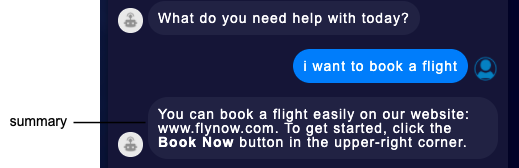
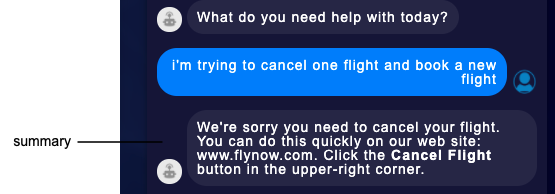
Copy edits to KAI doc

Changed region(s): [[0.0, 0.0, 0.9249, 1.0], [0.2775, 0.2381, 0.9865, 0.506]]

diff --git a/pages/Documents/ConversationalAI/ConversationBuilder/Interactions/integrations.md b/pages/Documents/ConversationalAI/ConversationBuilder/Interactions/integrations.md
@@ -61,41 +61,49 @@ A common use case for the Knowledge AI interaction is within a Fallback dialog, 
 
 #### How the search works
 
-* **The search phrase** - The Knowledge AI interaction always passes the consumer’s most recent message into the search, so it can be used as the search phrase.
+* **The search phrase** - The Knowledge AI interaction always passes the consumer’s most recent message into the search as the search phrase.
 * **The search** - When performing the search, the search mode is always “Intents.” For information on search modes, see [here](knowledge-base-using-intents-with-kbs.html#search-modes).
 * **The results** - The results that are returned must meet or exceed the confidence score that you specify within the interaction’s configuration. This minimum threshold can be VERY GOOD, GOOD or FAIR PLUS.
 
 {: .important}
-You might be familiar with implementing a knowledge base search using an Integration interaction that itself uses an associated [Knowledge Base integration](conversation-builder-integrations-knowledge-base-integrations.html) to perform the search. That approach is still supported. However, the Knowledge AI interaction is a faster and simpler alternative because it doesn’t need an associated Knowledge Base integration.
+You might be familiar with implementing a knowledge base search using an Integration interaction that itself uses a specified [Knowledge Base integration](conversation-builder-integrations-knowledge-base-integrations.html) to perform the search. That approach is still supported, but it is considered a legacy approach. The Knowledge AI interaction is a faster and simpler alternative because it doesn’t need an associated Knowledge Base integration.
 
-#### How the results are rendered
+#### Automatic rendering of results
 The results from a Knowledge AI search can be rendered in two ways:
 
 * Via automatic rendering
-* Via one or more Statement interactions that you add
+* Via one or more interactions that you manually add to the dialog
 
-Automatic rendering produces output that’s automatically rendered in a specific format, using specific elements of the article’s content.
+*Automatic rendering* doesn't require that you add any interactions to display the article content. It produces output that’s automatically rendered in a specific format. You can use:
 
-When you use “rich format” automatic rendering, the output includes rich elements, namely, images and links. The output looks like this:
+* Rich format
+* Plain text format
+
+“Rich format” automatic rendering uses a carousel and includes rich elements of the article's content, namely, the image URL and content URL. The output looks like this:
 
 <img style="width:500px" src="img/ConvoBuilder/knowledge_ai_rich.png">
 
-With "rich format" automatic rendering, anywhere from one to three results are returned based on the maximum number of answers that you've specified in the interaction.
+With "rich format" automatic rendering:
 
-In contrast, when you use “plain text” automatic rendering, the output doesn’t include rich elements, and it looks like this:
+* Anywhere from one to three results are returned based on the maximum number of answers that you've specified in the interaction.
+* The results degrade gracefully to "plain text format" when the channel in use doesn't support the carousel.
+
+With “plain text format” automatic rendering, the output doesn’t include rich elements, and it looks like this:
 
 <img style="width:500px" src="img/ConvoBuilder/knowledge_ai_plain.png">
 
-{: .important}
-Take note of the formatting applied to **Book Now** in the image above. When you use the "plain text" automatic rendering, HTML is not removed. Use HTML in your source knowledge base only when your target channels support it.
+With "plain text format" automatic rendering:
 
-With "plain text" automatic rendering, only a single, best result is returned regardless of the maximum number of answers that you've specified in the interaction.
+* Only a single, best result is returned regardless of the maximum number of answers that you've specified in the interaction.
+* HTML in the article's content is **not** removed. (Take note of the formatting applied to **Cancel Flight** in the image above.) Use HTML in your source knowledge base only when your target channels support it.
 
-Select “rich format” or “plain text format” based on the target channel’s support for rich elements. For more on this interaction’s channel support, see [here](conversation-builder-interactions-interaction-support.html).
+Select “rich format” or “plain text format” based on the target channel’s support for rich elements. For more on this interaction’s channel-level support, see [here](conversation-builder-interactions-interaction-support.html).
 
-If the output above meets your needs in terms of content and format, automatic rendering is the faster and simpler choice, as you don’t need to follow the Knowledge AI interaction with Statement interactions that display the article content. The Knowledge AI interaction handles everything: search of the knowledge base and rendering of the results.
+If the output above meets your needs in terms of content and format, automatic rendering is the faster and simpler choice, as you don’t need to follow the Knowledge AI interaction with interactions that display the article's content. The Knowledge AI interaction handles both search of the knowledge base and rendering of the results.
 
-However, if you desire control over the content and format, you can disable automatic rendering. In this case, after the Knowledge AI interaction, you’ll need to manually add the interactions that display the article content.
+#### Manual rendering of results
+
+If you require control over the content and format when rendering the search results, you can disable automatic rendering. In this case, after the Knowledge AI interaction, you’ll need to manually add the interactions that display the article content.
 
 To display a single result, use this syntax:
 
@@ -107,7 +115,7 @@ To display a single result, use this syntax:
 
 For example:
 
-<img style="width:600px" src="img/ConvoBuilder/knowledge_ai_result1.png">
+<img style="width:700px" src="img/ConvoBuilder/knowledge_ai_result1.png">
 
 To iterate over and display multiple results, use this syntax:
 
@@ -119,7 +127,7 @@ To iterate over and display multiple results, use this syntax:
 
 For example:
 
-<img style="width:600px" src="img/ConvoBuilder/knowledge_ai_result2.png">
+<img style="width:700px" src="img/ConvoBuilder/knowledge_ai_result2.png">
 
 #### Add a Knowledge AI interaction
 
